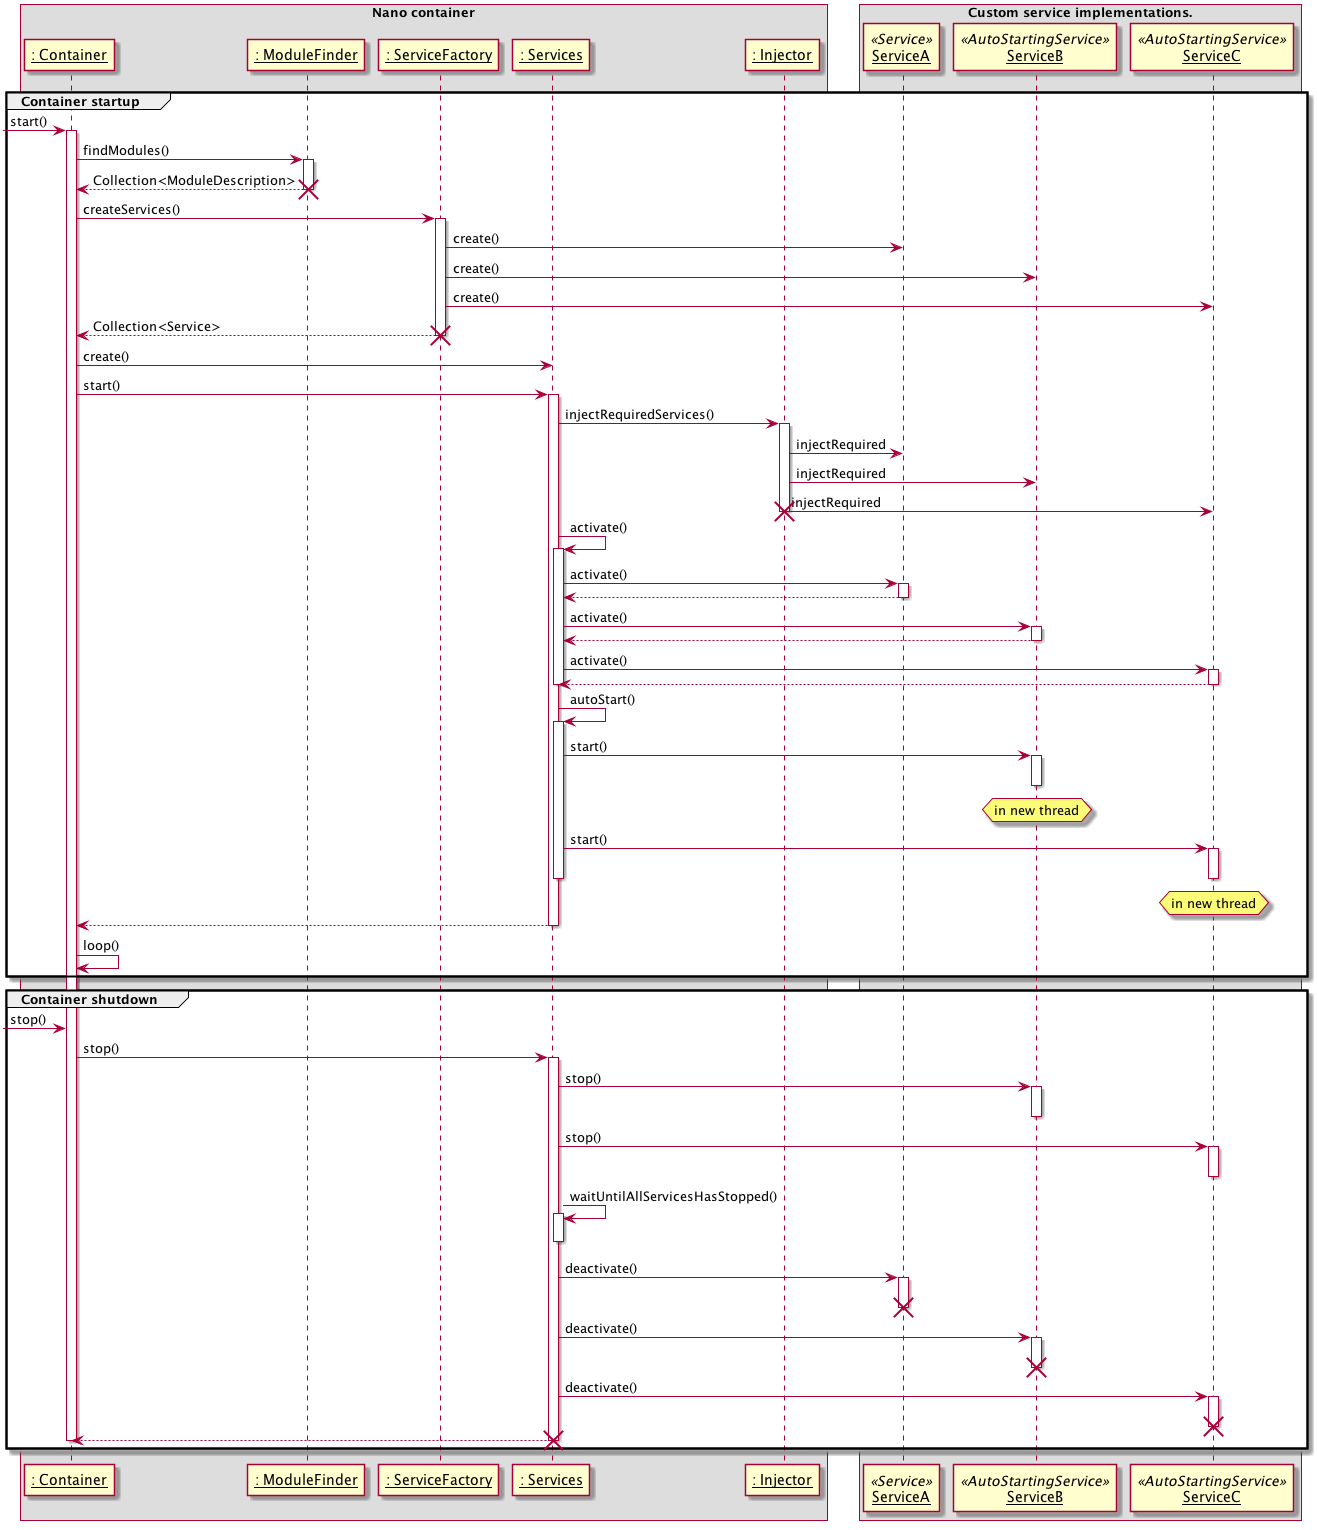
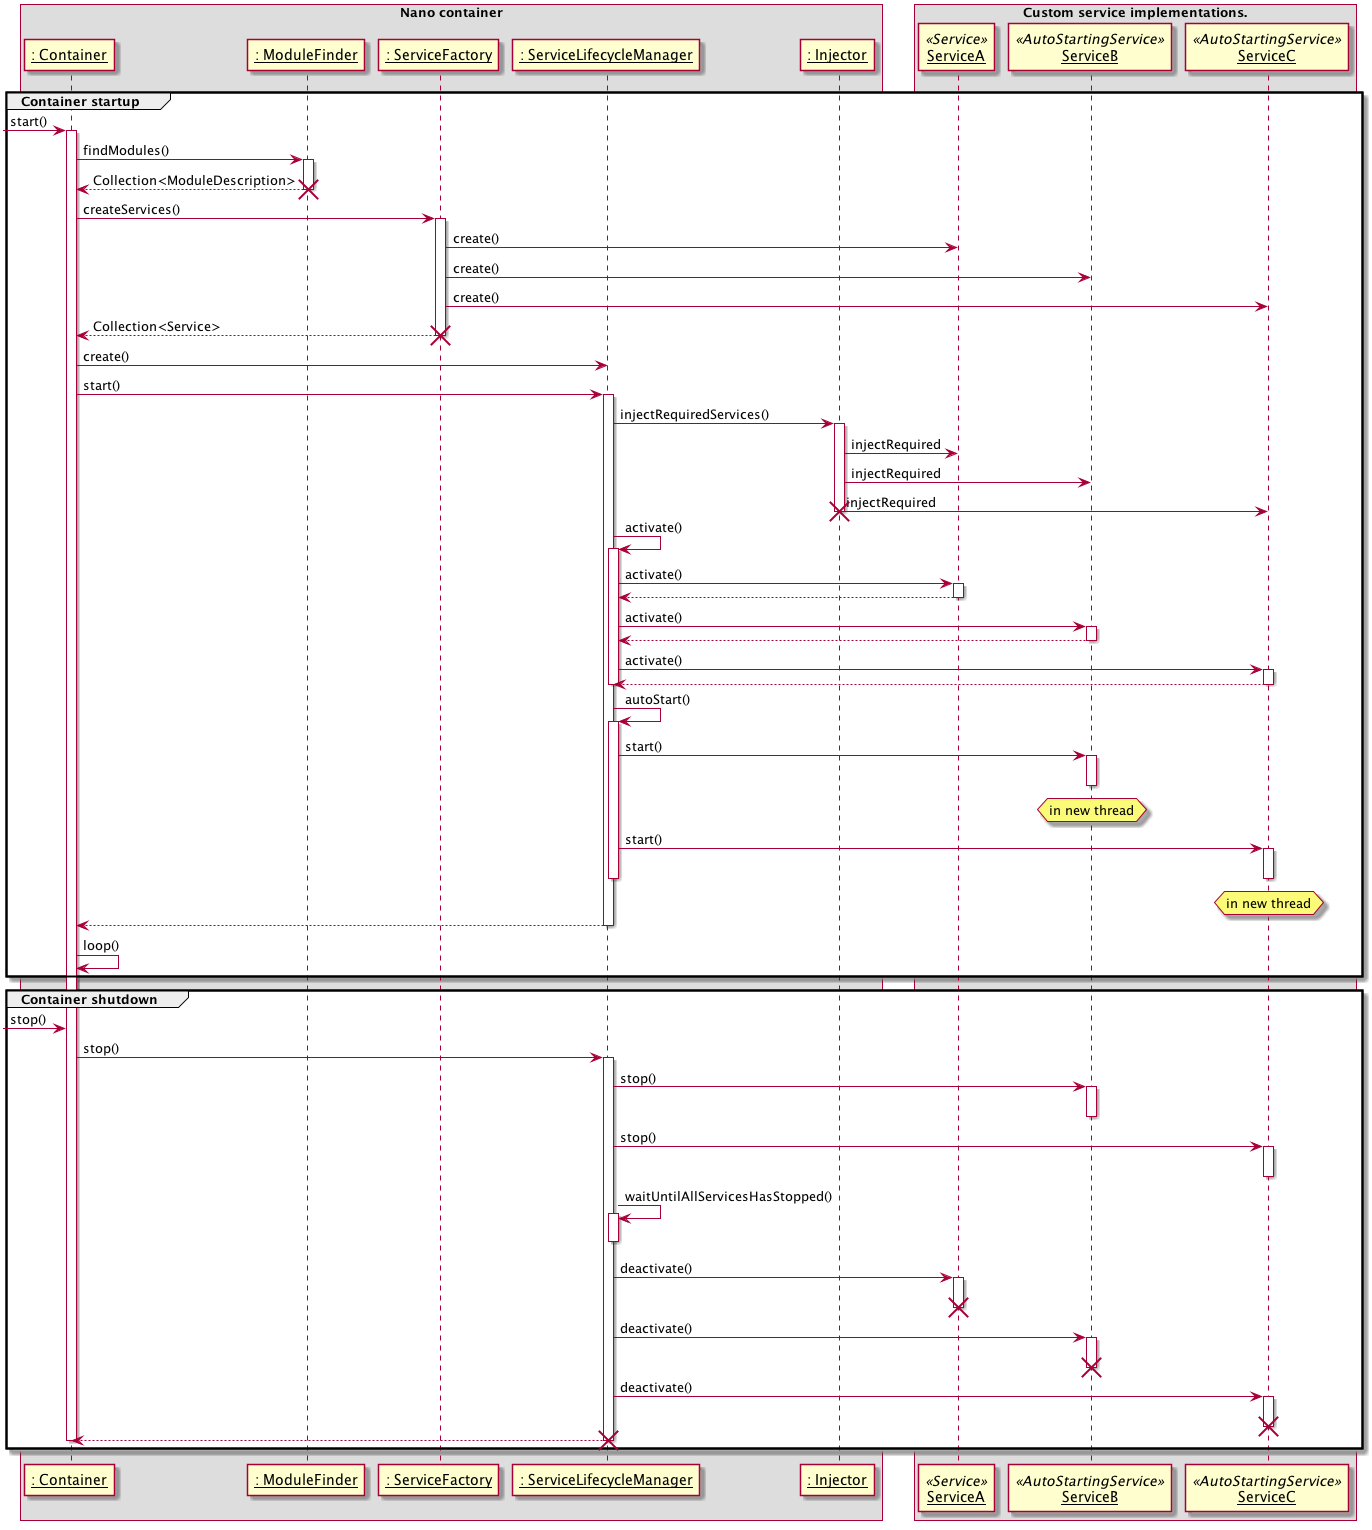
Rename services class

diff --git a/nano-container/src/main/java/de/weltraumschaf/nano/container/ServiceLifecycleManager.java b/nano-container/src/main/java/de/weltraumschaf/nano/container/ServiceLifecycleManager.java
@@ -10,7 +10,6 @@ import org.slf4j.LoggerFactory;
 import java.util.ArrayList;
 import java.util.Collection;
 import java.util.Optional;
-import java.util.concurrent.Callable;
 
 /**
  * Delegates the life cycle to all contained managed.
@@ -18,8 +17,8 @@ import java.util.concurrent.Callable;
  * @author Sven Strittmatter
  * @since 1.0.0
  */
-final class Services {
-    private static final Logger LOG = LoggerFactory.getLogger(Services.class);
+final class ServiceLifecycleManager {
+    private static final Logger LOG = LoggerFactory.getLogger(ServiceLifecycleManager.class);
     private static final int MILLIS_TO_WAIT = 1_000;
     private static final int MAX_RETRIES = 5;
     private final Collection<Service> managed;
@@ -29,7 +28,7 @@ final class Services {
      *
      * @param managed not {@code null}, defensive copied
      */
-    Services(final Collection<Service> managed) {
+    ServiceLifecycleManager(final Collection<Service> managed) {
         super();
         this.managed = new ArrayList<>(Validate.notNull(managed, "managed"));
     }

diff --git a/nano-container/src/test/java/de/weltraumschaf/nano/container/ServiceLifecycleManagerTest.java b/nano-container/src/test/java/de/weltraumschaf/nano/container/ServiceLifecycleManagerTest.java
@@ -20,16 +20,16 @@ import static org.mockito.ArgumentMatchers.argThat;
 import static org.mockito.Mockito.*;
 
 /**
- * Tests for {@link Services}.
+ * Tests for {@link ServiceLifecycleManager}.
  *
  * @author Sven Strittmatter
  * @since 1.0.0
  */
-public class ServicesTest {
+public class ServiceLifecycleManagerTest {
     private final ServiceOne serviceOne = mock(ServiceOne.class);
     private final ServiceTwo serviceTwo = mock(ServiceTwo.class);
     private final DefaultServiceThree serviceThree = new DefaultServiceThree();
-    private final Services sut = new Services(Arrays.asList(
+    private final ServiceLifecycleManager sut = new ServiceLifecycleManager(Arrays.asList(
         serviceOne, serviceTwo, serviceThree));
 
     @Before

diff --git a/nano-container/src/main/java/de/weltraumschaf/nano/container/Container.java b/nano-container/src/main/java/de/weltraumschaf/nano/container/Container.java
@@ -20,7 +20,7 @@ public final class Container {
     private final DefaultMessageBus messages = new DefaultMessageBus();
     private volatile boolean running;
     private volatile boolean stopped;
-    private Services services;
+    private ServiceLifecycleManager services;
 
     /**
      * Start the container.
@@ -33,7 +33,7 @@ public final class Container {
         running = true;
         final Collection<ModuleDescription> modules = findModules();
         final Collection<Service> created = createServices(modules);
-        this.services = new Services(created);
+        this.services = new ServiceLifecycleManager(created);
         this.services.start(messages);
         LOG.info("Container started.");
 

diff --git a/nano-container/src/main/java/de/weltraumschaf/nano/container/Injector.java b/nano-container/src/main/java/de/weltraumschaf/nano/container/Injector.java
@@ -18,14 +18,14 @@ import java.util.stream.Collectors;
  */
 final class Injector {
     private static final Logger LOG = LoggerFactory.getLogger(Injector.class);
-    private final Services services;
+    private final ServiceLifecycleManager services;
 
     /**
      * Dedicated constructor.
      *
      * @param services not {@code null}
      */
-    Injector(final Services services) {
+    Injector(final ServiceLifecycleManager services) {
         super();
         this.services = Validate.notNull(services, "services");
     }

diff --git a/nano-container/src/test/java/de/weltraumschaf/nano/container/InjectorTest.java b/nano-container/src/test/java/de/weltraumschaf/nano/container/InjectorTest.java
@@ -20,7 +20,7 @@ public class InjectorTest {
     private final DefaultRequiredServiceOne one = new DefaultRequiredServiceOne();
     private final DefaultRequiredServiceTwo two = new DefaultRequiredServiceTwo();
     private final DefaultServiceWhichRequires requires = new DefaultServiceWhichRequires();
-    private final Injector sut = new Injector(new Services(Arrays.asList(
+    private final Injector sut = new Injector(new ServiceLifecycleManager(Arrays.asList(
         one,
         two,
         requires
